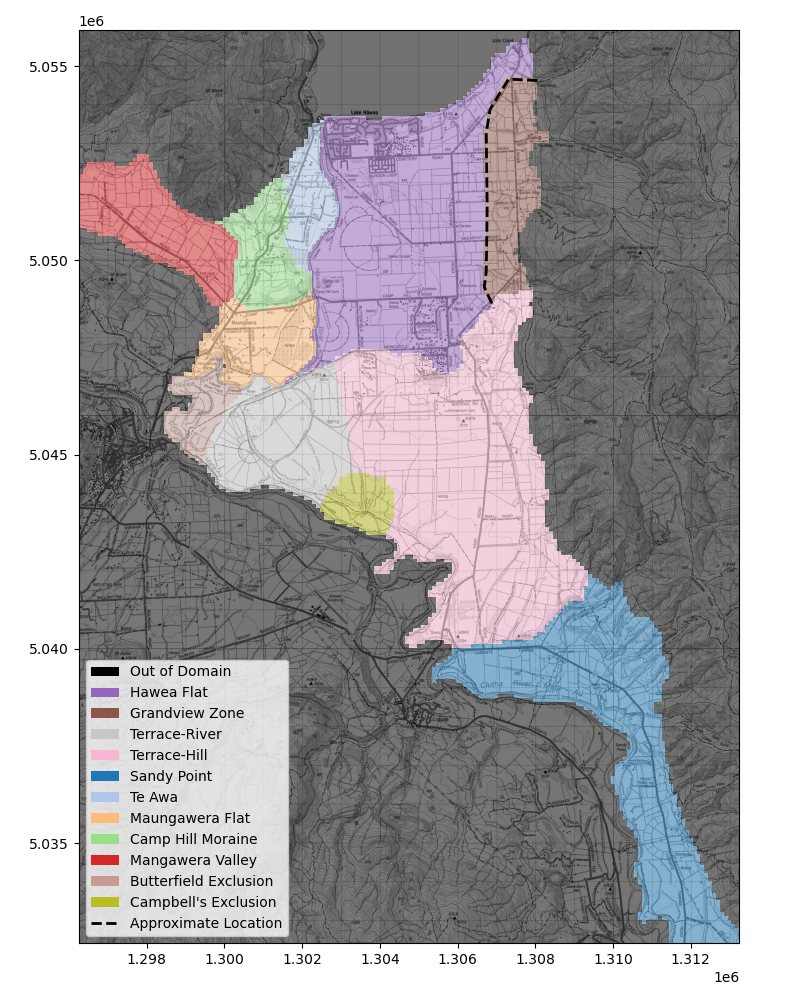
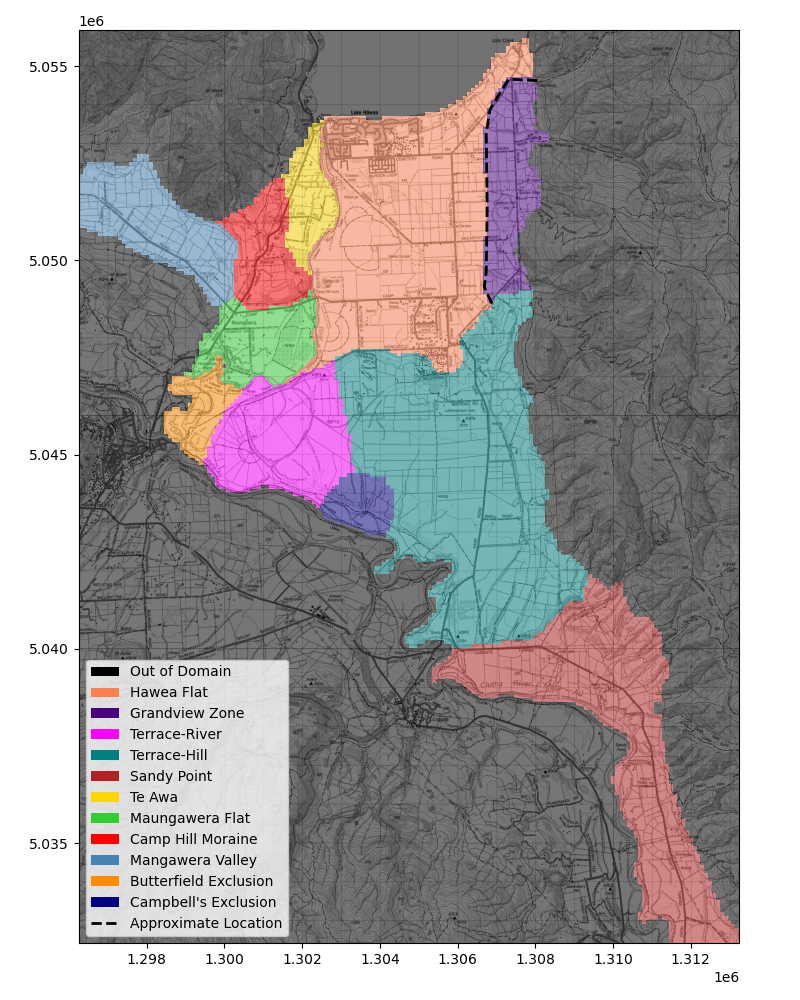
finish campbells setback

Changed region(s): [[0.0938, 0.031, 0.9375, 0.961], [0.0938, 0.682, 0.1562, 0.93]]

diff --git a/Scenarios/allocation_zones.py b/Scenarios/allocation_zones.py
@@ -29,6 +29,24 @@ def plot_allocation_zone(save=False):
     mapper_keys = list(mapper.keys())
     plot_data[~np.isfinite(plot_data)] = -1
     colors = {i: c for i, c in zip(mapper_keys, smt.plot.get_colors(mapper_keys, 'tab20'))}
+    use_colors = [
+        'firebrick',
+        'gold',
+        'limegreen',
+        'red',
+        'steelblue',
+        'coral',
+        'indigo',
+        'darkorange',
+        'teal',
+        'magenta',
+        'navy',
+        'crimson',
+
+
+    ]
+    colors = {i: c for i, c in zip(mapper_keys, use_colors)}
+
     mapper[-1] = 'Out of Domain'
     colors[-1] = 'k'
     fig, ax, handles, labels = smt.plot.plt_discrete_matrix(plot_data, colors=colors, names=mapper, base_map=True,
